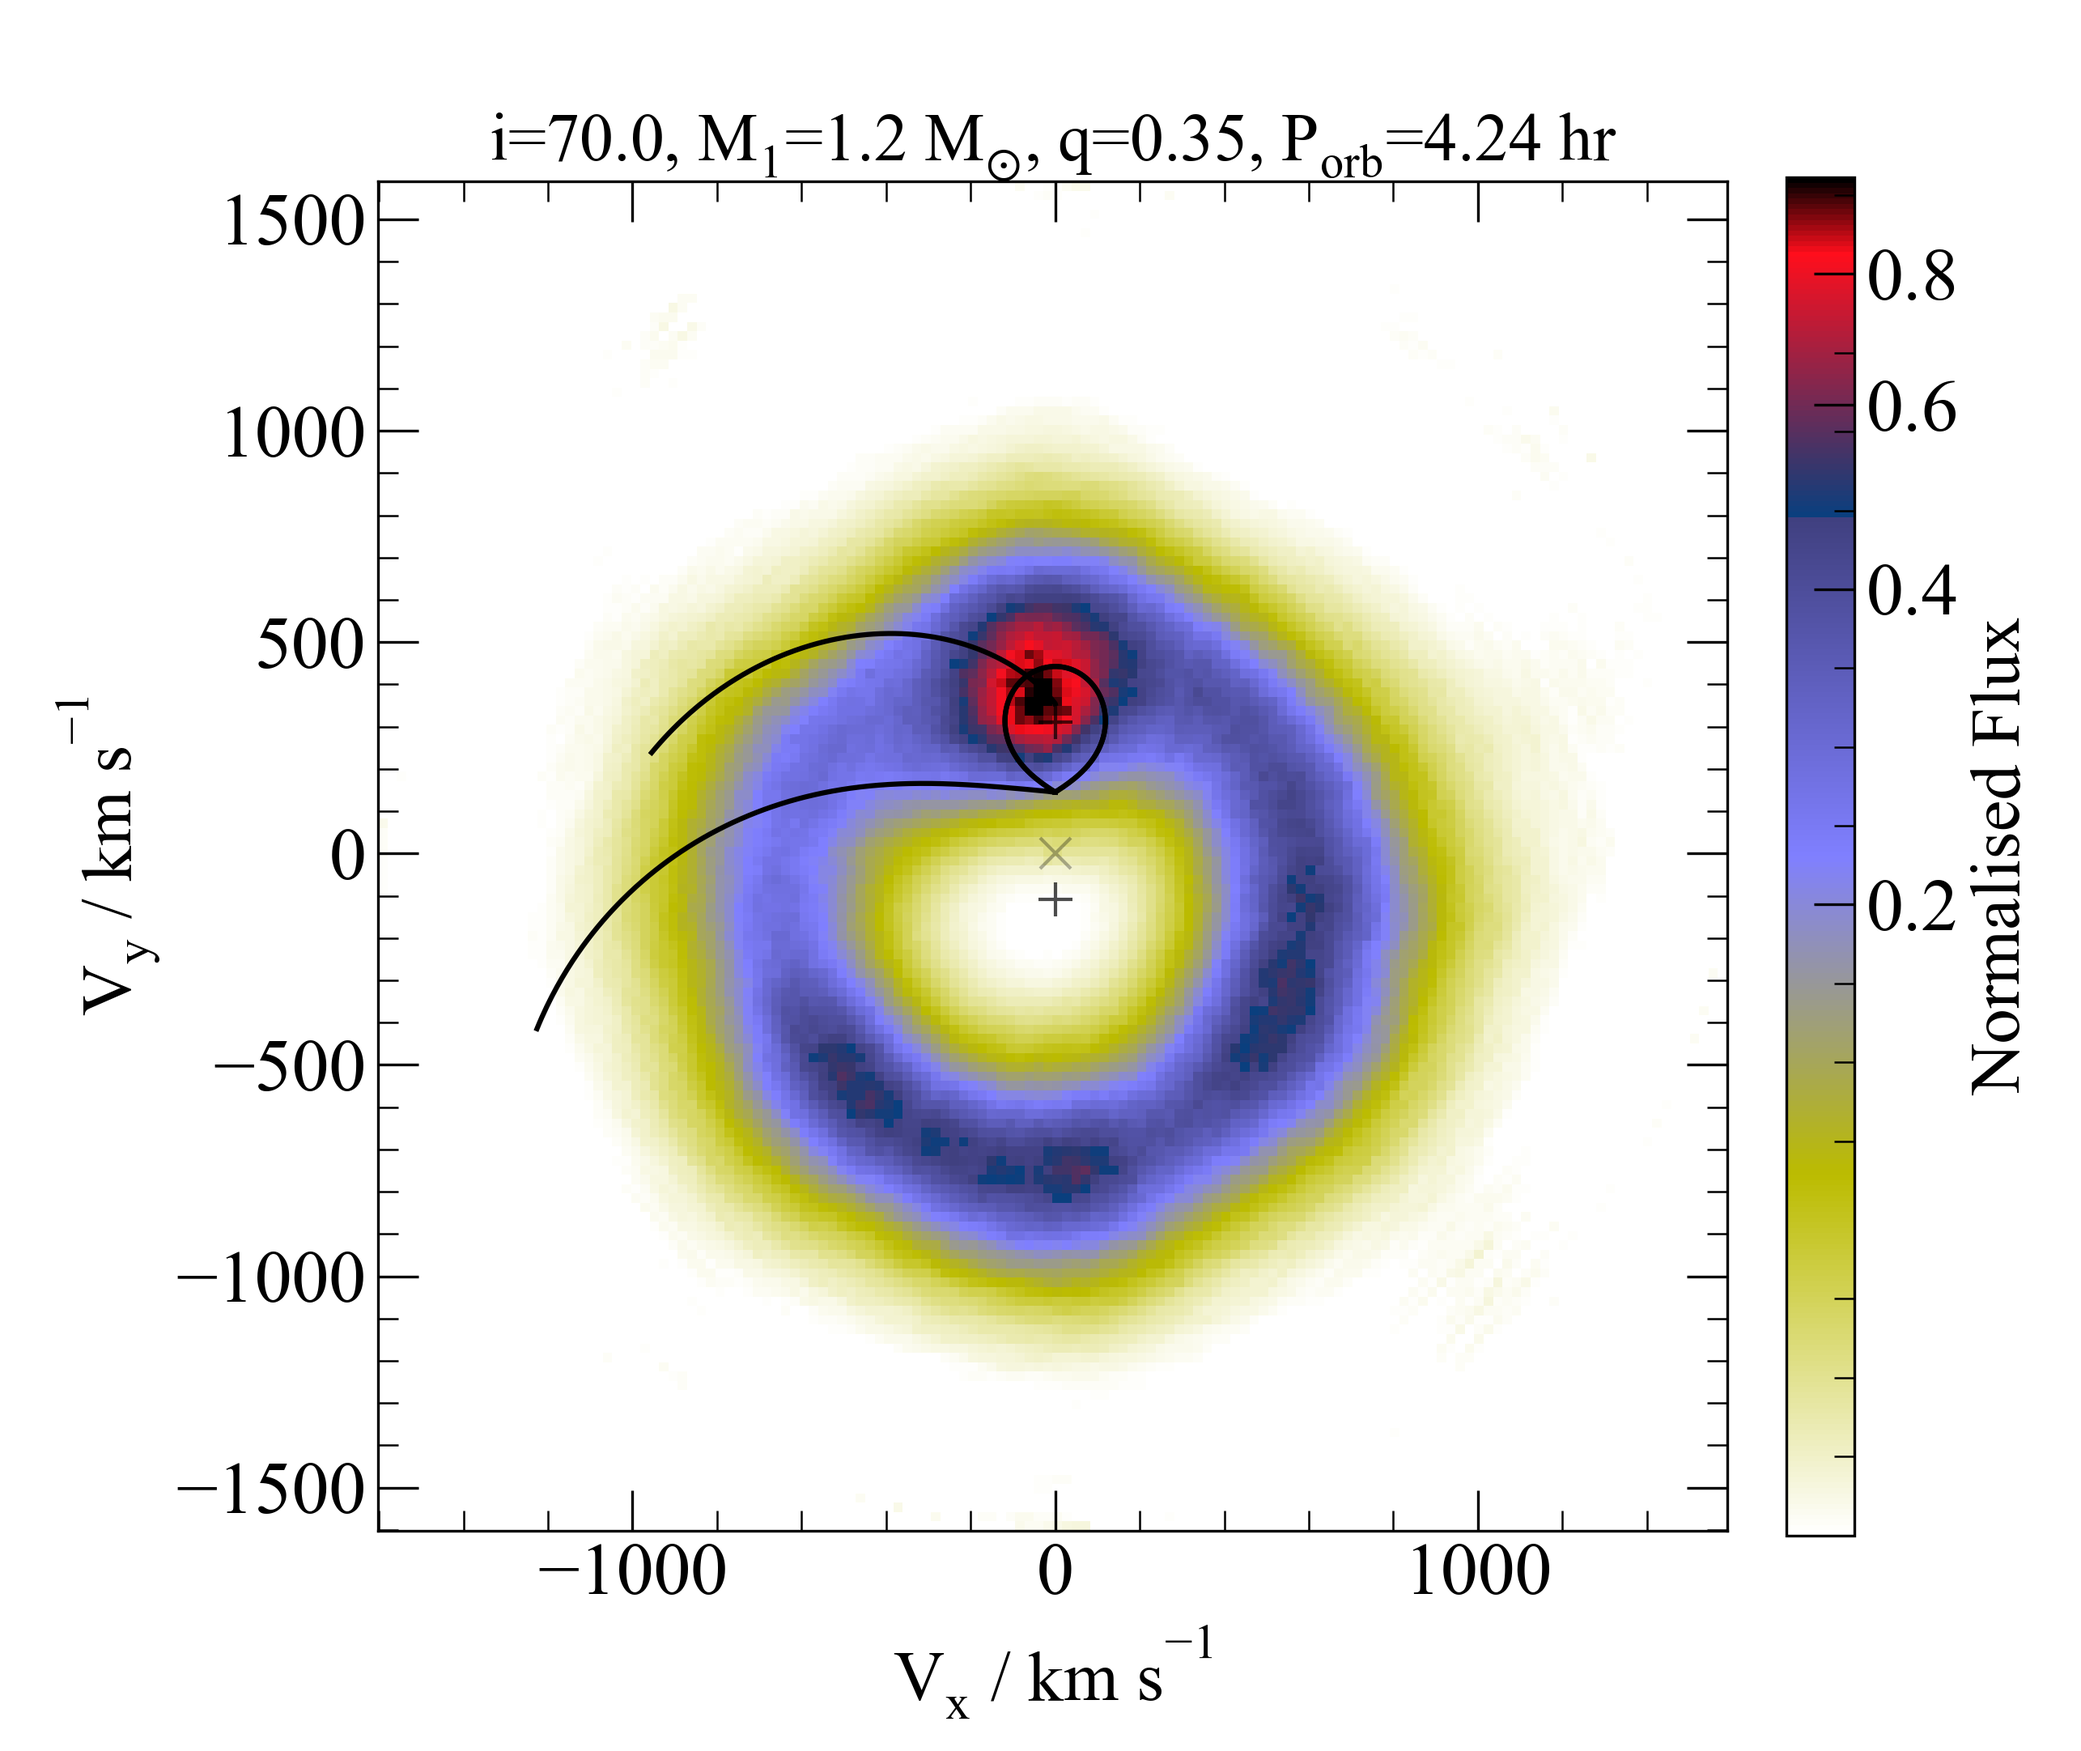
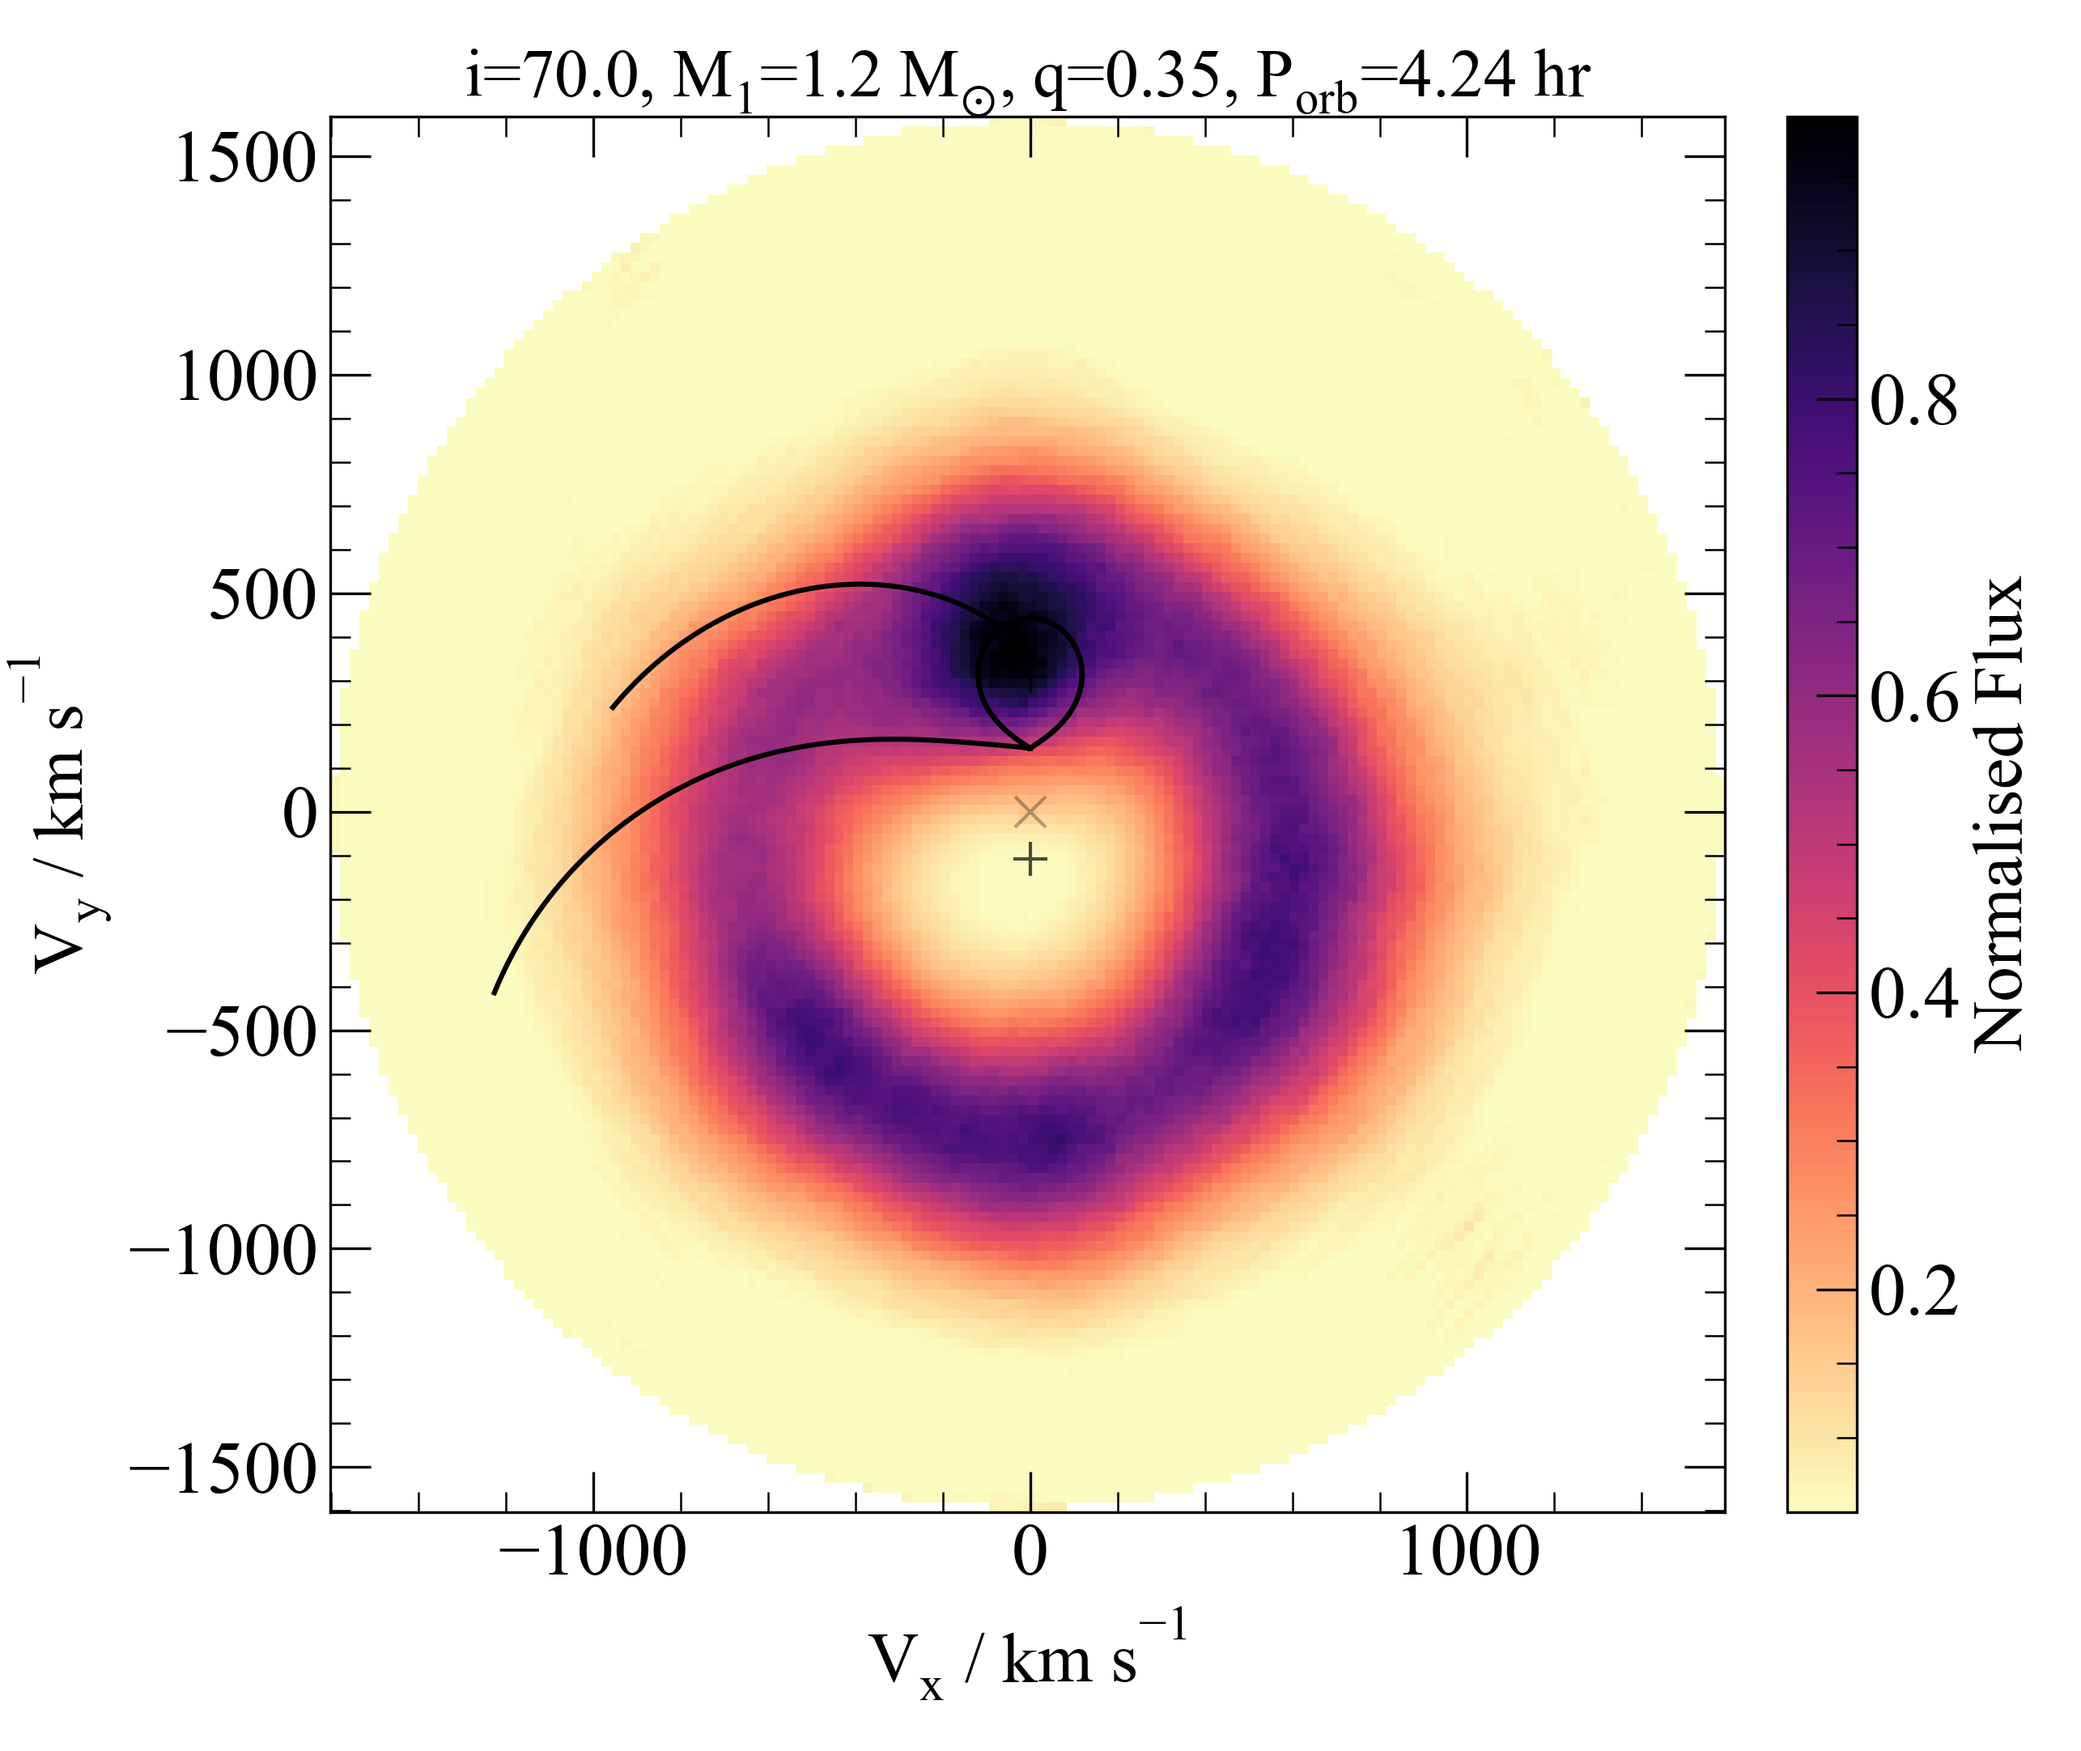
new images and script

diff --git a/pydoppler/test_data/sample_script.py b/pydoppler/test_data/sample_script.py
@@ -26,9 +26,9 @@ dop.Foldspec()
 dop.Dopin(continnum_band=[6500,6537,6591,6620],
         plot_median=False,poly_degree=2)
 
-#This routine will display the outcome of the Doppler tomography. You can overplot
-#  contours and streams.
-cb,data = dop.Dopmap(limits=[0.05,0.99],colorbar=True,cmaps=cm.gist_stern_r,
+# This routine will display the outcome of the Doppler tomography.
+# You can overplot contours and streams.
+cb,data = dop.Dopmap(limits=[0.05,0.99],colorbar=True,cmaps=cm.magma_r,
                      smooth=False,remove_mean=False)
 
 # Overplot the donor contours, keplerian and ballistic streams
@@ -37,4 +37,10 @@ k1 = 107
 inc=70
 m1=1.2
 porb=0.1769061911
+
 pydoppler.stream(qm,k1,porb,m1,inc)
+
+# Always check that reconstructed spectra looks like the original one. A good
+# rule of thumb "If a feature on the Doppler tomogram isn not in the trail,
+# most likely its not real!"
+cb2,cb3,dmr = dop.Reco(colorbar=True,limits=[.05,0.95],cmaps=cm.magma_r)

diff --git a/pydoppler/__init__.py b/pydoppler/__init__.py
@@ -1,4 +1,4 @@
 __modules__ = ['pydoppler']
 from .pydoppler import spruit, rebin_trail, stream, test_data
 
-__version__ = "0.1.4"
+__version__ = "0.1.5"

diff --git a/README.md b/README.md
@@ -145,7 +145,7 @@
     ```
 
 
-  <p float="center">
+  <p align="middle">
      <img src="pydoppler/test_data/output_images/Average_Spec.png" width="350" height="450" />
      <img src="pydoppler/test_data/output_images/Trail.png" width="350" height="450" />
   </p>
@@ -157,6 +157,7 @@
   dop.Syncdop()
   ```
 
+  The output of the fortran code is:
   ```
   nvp 477
   (28, 477)
@@ -231,29 +232,35 @@
   contours and streams.
   ```python
   # Read and plot map
-  cb,data = do.Dopmap(limits=[0.05,0.99],colorbar=True,cmaps=cm.gist_stern_r,
+  cb,data = dop.Dopmap(limits=[0.05,0.99],colorbar=True,cmaps=cm.mamga_r,
   					smooth=False,remove_mean=False)
   # Overplot the donor contours, keplerian and ballistic streams
-  qm=0.35
-  k1 = 107
-  inc=70
-  m1=1.2
-  porb=0.1769061911
+  qm=0.35   # mass ratio M_2 / M_1
+  k1 = 107  # Semi amplitude of the primary in km/s
+  inc=70    # inclination angle, in degrees
+  m1=1.2    # Mass of the primary in solar masses
+  porb=0.1769061911  # orbital period in days
+
+
   pydoppler.stream(qm,k1,porb,m1,inc)
   ```
-  <p float="center">
-     <img src="pydoppler/test_data/output_images/Doppler_Map.png" width="450" height="450" />
+  <p align="middle">
+     <img src="pydoppler/test_data/output_images/Doppler_Map.png" width="520" height="450" />
   </p>
 
-  ### Section 2.5: Spectra reconstrunction
+  ### Section 2.5: Spectra reconstruction
   Always check that reconstructed spectra looks like the original one. A good
   rule of thumb "If a feature on the Doppler tomogram isn not in the trail, most likely
   its not real!"
 
   ```python
   # plot trail spectra
-  cb2,cb3,dmr = do.Reco(colorbar=True,limits=[.05,0.95],cmaps=cm.gist_stern_r)
+  cb2,cb3,dmr = dop.Reco(colorbar=True,limits=[.05,0.95],cmaps=cm.magma_r)
   ```
+  <p align="middle">
+     <img src="pydoppler/test_data/output_images/Reconstruction.png" width="520" height="450" />
+  </p>
+
   ## Section 3: Troubleshoot
   This is an early version of the wrapper. Things will go wrong. If you find a
   bug or need a feature, I will try my best to work it out. If you think you can
